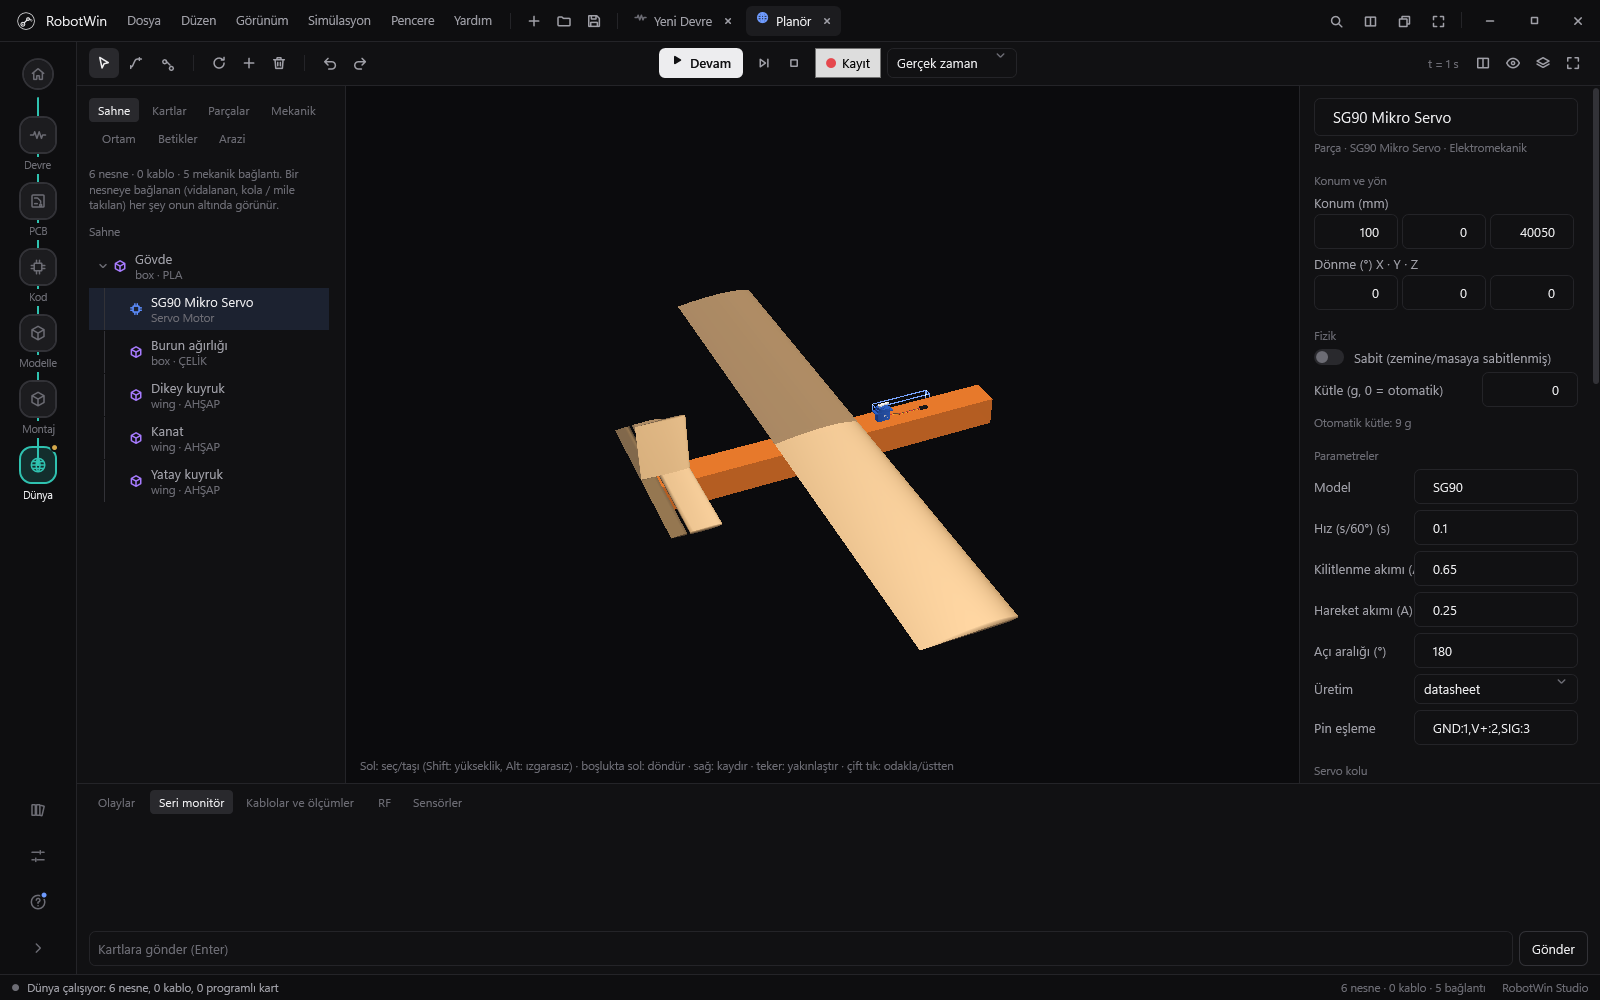
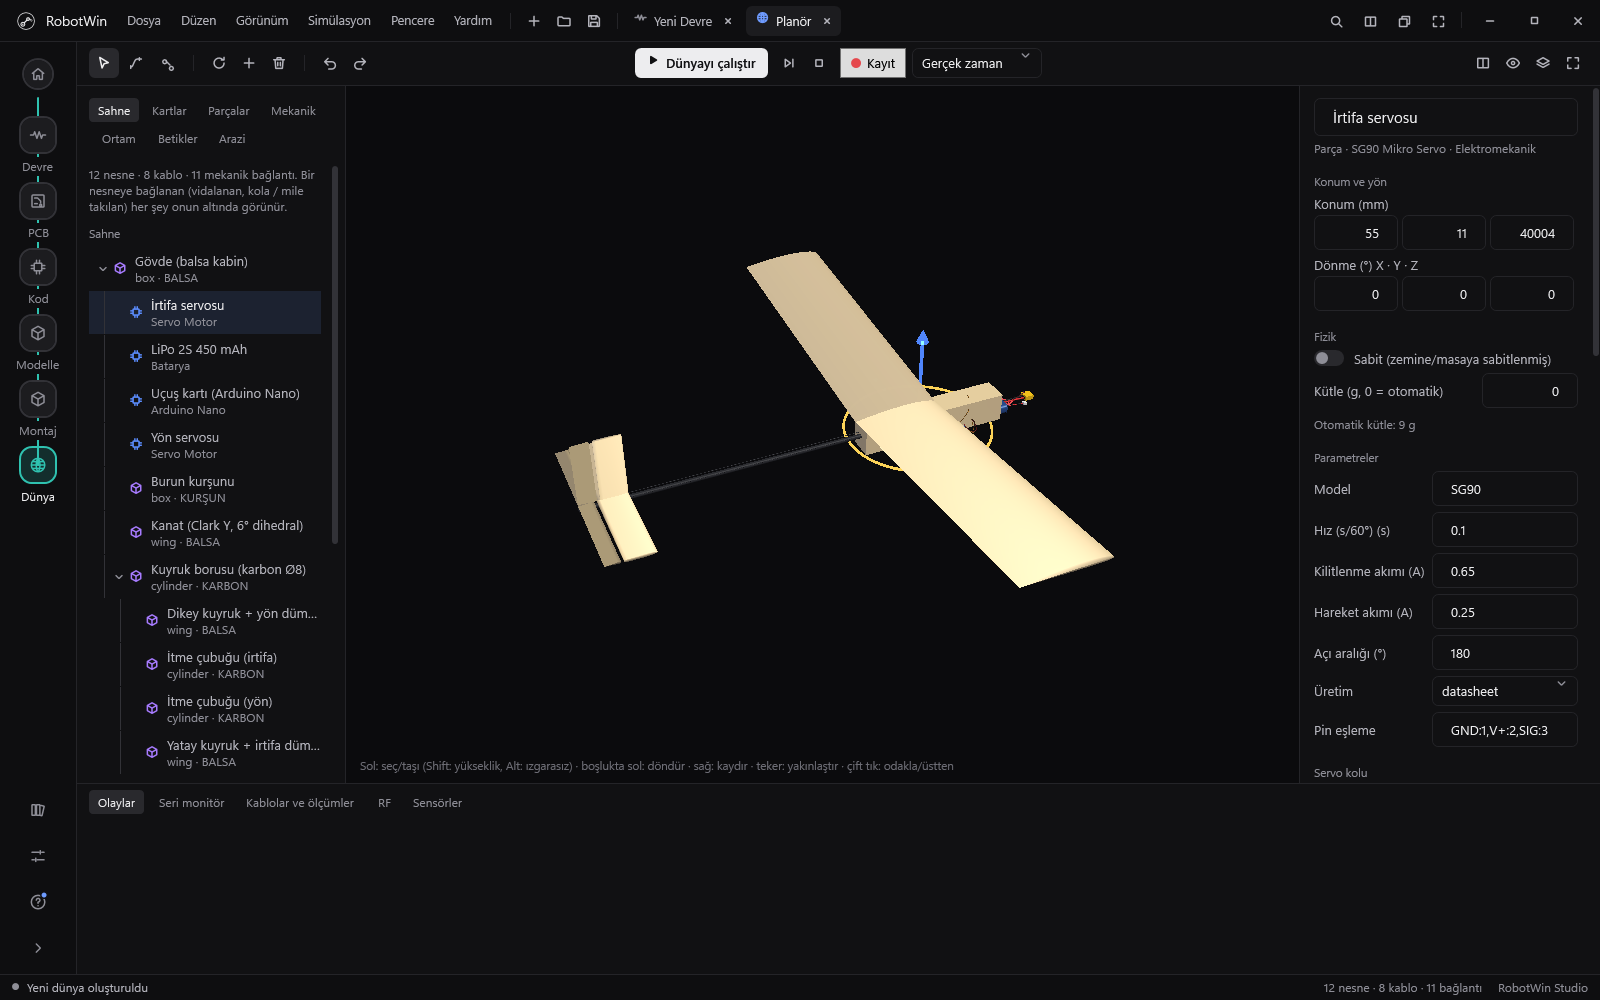
Glider rebuilt the way a real one is; wood density fix; balsa, carbon, lead
The glider template was not a buildable aircraft (solid 60 cm PLA block, a servo floating
on top driving nothing, nose weight sunk into the fuselage). Now: balsa pod with a 2S
LiPo, Arduino Nano, elevator and rudder SG90s and nose lead inside; carbon tail boom glued
into the pod with 1 mm pushrods beside it; 6 deg dihedral Clark Y wing on the wing saddle
(rudder steered); tailplane and fin on the boom; LiPo -> Nano VIN, servos from 5 V,
signals D9/D10; a flight sketch holds trim then turns gently. 233 g, CG at 33 % chord,
tail volume ~0.57: it glides ~10:1 at 5 m/s with < 9 deg pitch swing (tested in the
headless runner). No unintended overlaps (overlap report clean).
Materials: wood had no density entry and weighed like PLA (1240 instead of ~500 kg/m3);
added wood, balsa, lead, rubber, copper densities and structural/thermal data for balsa,
carbon fibre and lead, with colours.

diff --git a/CoreSim/src/RobotTwin.CoreSim/Sandbox/WorldExamples.cs b/CoreSim/src/RobotTwin.CoreSim/Sandbox/WorldExamples.cs
@@ -17,46 +17,131 @@ namespace RobotTwin.CoreSim.Sandbox
         /// the Studio and the headless runner use, so the wheels sit exactly on their axles.
         /// </summary>
         /// <summary>
-        /// [aero] 1 m model glider: Clark Y wing (2° incidence), NACA 0012 tail with an elevator linked
-        /// to an SG90 servo by a 0.5 pushrod, fin, nose weight for a stable CG; hand-launched at
-        /// 12 m/s from 40 m. Static margin ≈ 25 % of the chord: it settles into a ~7:1 glide.
+        /// [aero] A 1 m RC thermal glider built the way a real one is: a balsa fuselage pod carrying a
+        /// 2S LiPo, an Arduino Nano and two SG90 servos (elevator, rudder) with lead in the nose, a
+        /// carbon tail boom with the pushrods running beside it, a 6° dihedral Clark Y wing on the
+        /// pod's wing saddle (rudder-steered, no ailerons: dihedral turns yaw into roll), and the
+        /// tailplane and fin on the end of the boom. CG ≈ 33 % of the chord, tail volume ≈ 0.57.
+        /// Hand-launched at 7 m/s from 40 m; the sketch holds trim, then flies a gentle turn.
         /// </summary>
         public static WorldDocument Glider(PartLibrary lib)
         {
             var w = new WorldDocument { Title = "Planör" };
-            double z = 40;
-            var fus = w.AddBody("box", 0.60, 0.05, 0.05, new WorldPose { Z = z }, "PLA");
-            fus.Name = "Gövde";
-            fus.MassKg = 0.25;
-            fus.Parameters["launch"] = "12";
-            var nose = w.AddBody("box", 0.05, 0.04, 0.04, new WorldPose { X = 0.25, Z = z + 0.005 }, "ÇELİK");
-            nose.Name = "Burun ağırlığı";
-            nose.MassKg = 0.07;
-            var wing = w.AddBody("wing", 0.15, 1.0, 0.012, new WorldPose { X = -0.02, Z = z + 0.05 }, "AHŞAP");
-            wing.Name = "Kanat";
-            wing.MassKg = 0.08;
+            const double z0 = 40;                    // pod bottom
+            const double podTop = z0 + 0.050;
+            const double boomZ = z0 + 0.025;          // boom axis
+            const double tailX = -0.50;
+
+            var pod = w.AddBody("box", 0.26, 0.045, 0.050, new WorldPose { X = 0.07, Z = z0 }, "BALSA");
+            pod.Name = "Gövde (balsa kabin)";
+            pod.MassKg = 0.035;                       // hollow 2 mm balsa box with a ply former
+            pod.Parameters["launch"] = "7";
+            var boom = w.AddBody("cylinder", 0.008, 0.008, 0.50, new WorldPose { X = tailX - 0.04, Z = boomZ, Pitch = 90 }, "KARBON");
+            boom.Name = "Kuyruk borusu (karbon Ø8)";
+            boom.MassKg = 0.012;
+
+            var wing = w.AddBody("wing", 0.15, 1.0, 0.012, new WorldPose { X = 0.005, Z = podTop }, "BALSA");
+            wing.Name = "Kanat (Clark Y, 6° dihedral)";
+            wing.MassKg = 0.060;
             wing.Parameters["airfoil"] = "clarky";
             wing.Parameters["incidence"] = "2";
-            var servo = w.AddComponent(lib, "servo-sg90", new WorldPose { X = 0.10, Y = 0.0, Z = z + 0.05 });
-            var tail = w.AddBody("wing", 0.08, 0.30, 0.006, new WorldPose { X = -0.28, Z = z + 0.05 }, "AHŞAP");
-            tail.Name = "Yatay kuyruk";
-            tail.MassKg = 0.015;
-            tail.Parameters["airfoil"] = "naca0012";
-            tail.Parameters["incidence"] = "-3";
-            tail.Parameters["control"] = "elevator";
-            tail.Parameters["control.chord"] = "0.35";
-            tail.Parameters["control.servo"] = servo.Id;
-            tail.Parameters["control.gain"] = "0.5";
-            tail.Parameters["downwash"] = wing.Id;
-            var fin = w.AddBody("wing", 0.08, 0.10, 0.006, new WorldPose { X = -0.28, Z = z + 0.056 }, "AHŞAP");
-            fin.Name = "Dikey kuyruk";
-            fin.MassKg = 0.008;
+            wing.Parameters["dihedral"] = "6";
+
+            // Electronics inside the pod: battery and lead forward for the CG, servos under the wing.
+            var bat = w.AddComponent(lib, "bat-2s-lipo", new WorldPose { X = 0.165, Z = z0 + 0.004 });
+            bat.Name = "LiPo 2S 450 mAh";
+            bat.MassKg = 0.028;
+            var nano = w.AddComponent(lib, "arduino-nano", new WorldPose { X = 0.110, Z = z0 + 0.004 });
+            nano.Name = "Uçuş kartı (Arduino Nano)";
+            nano.MassKg = 0.007;
+            nano.Firmware = new Formats.FirmwareSource
+            {
+                FileName = "planor.ino",
+                Target = "arduino:avr:nano",
+                Source = GliderSketch
+            };
+            var elevServo = w.AddComponent(lib, "servo-sg90", new WorldPose { X = 0.055, Y = 0.011, Z = z0 + 0.004 });
+            elevServo.Name = "İrtifa servosu";
+            var rudServo = w.AddComponent(lib, "servo-sg90", new WorldPose { X = 0.055, Y = -0.011, Z = z0 + 0.004 });
+            rudServo.Name = "Yön servosu";
+            var lead = w.AddBody("box", 0.020, 0.020, 0.008, new WorldPose { X = 0.190, Z = z0 + 0.034 }, "KURŞUN");
+            lead.Name = "Burun kurşunu";
+            lead.MassKg = 0.038;
+
+            // Pushrods: 1 mm carbon rods from the pod's rear exit along the boom to the control horns.
+            var rodE = w.AddBody("cylinder", 0.001, 0.001, 0.45, new WorldPose { X = tailX + 0.01, Y = 0.006, Z = boomZ + 0.004, Pitch = 90 }, "KARBON");
+            rodE.Name = "İtme çubuğu (irtifa)";
+            rodE.MassKg = 0.0008;
+            var rodR = w.AddBody("cylinder", 0.001, 0.001, 0.45, new WorldPose { X = tailX + 0.01, Y = -0.006, Z = boomZ + 0.004, Pitch = 90 }, "KARBON");
+            rodR.Name = "İtme çubuğu (yön)";
+            rodR.MassKg = 0.0008;
+
+            var stab = w.AddBody("wing", 0.08, 0.30, 0.006, new WorldPose { X = tailX, Z = boomZ + 0.004 }, "BALSA");
+            stab.Name = "Yatay kuyruk + irtifa dümeni";
+            stab.MassKg = 0.008;
+            stab.Parameters["airfoil"] = "naca0012";
+            stab.Parameters["incidence"] = "-2";
+            stab.Parameters["control"] = "elevator";
+            stab.Parameters["control.chord"] = "0.35";
+            stab.Parameters["control.servo"] = elevServo.Id;
+            stab.Parameters["control.gain"] = "0.5";   // horn 12 mm / control horn 24 mm
+            stab.Parameters["downwash"] = wing.Id;
+            var fin = w.AddBody("wing", 0.08, 0.11, 0.005, new WorldPose { X = tailX, Z = boomZ + 0.010 }, "BALSA");
+            fin.Name = "Dikey kuyruk + yön dümeni";
+            fin.MassKg = 0.005;
             fin.Parameters["airfoil"] = "naca0012";
             fin.Parameters["symmetric"] = "false";
-            foreach (var part in new WorldObject[] { nose, wing, tail, fin, servo })
-                w.Joints.Add(new WorldJoint { Id = w.NextId("J"), ObjectA = part.Id, ObjectB = fus.Id });
+            fin.Parameters["control"] = "rudder";
+            fin.Parameters["control.chord"] = "0.4";
+            fin.Parameters["control.servo"] = rudServo.Id;
+            fin.Parameters["control.gain"] = "0.5";
+
+            foreach (var part in new WorldObject[] { boom, wing, bat, nano, elevServo, rudServo, lead })
+                w.Joints.Add(new WorldJoint { Id = w.NextId("J"), ObjectA = part.Id, ObjectB = pod.Id });
+            foreach (var part in new WorldObject[] { stab, fin, rodE, rodR })
+                w.Joints.Add(new WorldJoint { Id = w.NextId("J"), ObjectA = part.Id, ObjectB = boom.Id });
+
+            // Wiring: LiPo → Nano VIN (on-board regulator), servos from the Nano's 5 V, signals D9 / D10.
+            WorldCable C(WorldObject a, string pa, WorldObject b, string pb, string color)
+            {
+                var c = w.Connect(new CableEnd { ObjectId = a.Id, Pin = pa }, new CableEnd { ObjectId = b.Id, Pin = pb }, 26, color);
+                c.Length = 0.10;
+                return c;
+            }
+
+            C(bat, "+", nano, "VIN", "#E5484D");
+            C(bat, "-", nano, "GND1", "#1F1F23");
+            C(nano, "5V", elevServo, "V+", "#E5484D");
+            C(nano, "GND2", elevServo, "GND", "#5A3A22");
+            C(nano, "D9", elevServo, "SIG", "#F2A33B");
+            C(nano, "5V", rudServo, "V+", "#E5484D");
+            C(nano, "GND1", rudServo, "GND", "#5A3A22");
+            C(nano, "D10", rudServo, "SIG", "#F2A33B");
             return w;
         }
+
+        /// <summary>Glider flight sketch: trim for 3 s, a gentle rudder turn, then straight again.</summary>
+        public const string GliderSketch = @"#include <Servo.h>
+// Planör uçuş kartı: irtifa dümeni D9, yön dümeni D10.
+Servo elevator, rudder;
+const int ELEV_TRIM = 90;   // derece; 90 = nötr
+const int RUD_TRIM = 90;
+
+void setup() {
+  elevator.attach(9);
+  rudder.attach(10);
+  elevator.write(ELEV_TRIM);
+  rudder.write(RUD_TRIM);
+}
+
+void loop() {
+  unsigned long t = millis();
+  // 3 s düz süzül, 4 s hafif sola dönüş (dihedral yalpayı yatışa çevirir), sonra düz.
+  rudder.write(t > 3000 && t < 7000 ? RUD_TRIM + 20 : RUD_TRIM);
+  elevator.write(ELEV_TRIM);
+  delay(20);
+}
+";
 
         public static WorldDocument CarDetailed(PartLibrary lib) => Car(lib, 0.0224, -0.0227, 0.0112, 0.0184);
 

diff --git a/CoreSim/tests/RobotTwin.CoreSim.Tests/AeroWingTests.cs b/CoreSim/tests/RobotTwin.CoreSim.Tests/AeroWingTests.cs
@@ -183,16 +183,39 @@ namespace RobotTwin.CoreSim.Tests
         [Fact]
         public void GliderExampleFliesInTheHeadlessRunner()
         {
-            var w = WorldExamples.Glider(RobotTwin.CoreSim.Design.PartLibrary.Default);
-            var fus = w.Objects.First(o => o.Name == "Gövde");
-            using var r = new RobotTwin.CoreSim.Automation.WorldRunner(w, new RobotTwin.CoreSim.Automation.RunnerOptions { Firmware = false });
-            Assert.True(r.TryGetBody(fus.Id, out var s0));
-            r.Step(5.0);
-            Assert.True(r.TryGetBody(fus.Id, out var s1));
-            double dx = s1.Position.X - s0.Position.X, dz = s0.Position.Z - s1.Position.Z;
-            _out.WriteLine($"5 s: {dx:F1} m forward, {dz:F1} m down, speed {s1.Velocity.Length:F1} m/s");
-            Assert.True(dx > 35, "it flies forward");
-            Assert.InRange(dz, 2, 20);
+            {
+                string inc = "-2";
+                var w = WorldExamples.Glider(RobotTwin.CoreSim.Design.PartLibrary.Default);
+                var pod = w.Objects.First(o => o.Name.StartsWith("Gövde"));
+                using var r = new RobotTwin.CoreSim.Automation.WorldRunner(w, new RobotTwin.CoreSim.Automation.RunnerOptions { Firmware = false });
+                Assert.True(r.TryGetBody(pod.Id, out var s0));
+                double mass = 0;
+                Vec3 cg = Vec3.Zero;
+                foreach (var b in r.Physics!.Scene.Bodies.Where(b => !b.IsStatic))
+                {
+                    mass += b.Mass;
+                    cg += b.Position * b.Mass;
+                }
+
+                cg /= mass;
+                double maxPitch = 0;
+                for (int k = 0; k < 50; k++)
+                {
+                    r.Step(0.1);
+                    Assert.True(r.TryGetBody(pod.Id, out var sk));
+                    double pitch = Math.Asin(Math.Max(-1, Math.Min(1, sk.Orientation.Rotate(Vec3.UnitX).Z))) * 180 / Math.PI;
+                    if (k >= 20) maxPitch = Math.Max(maxPitch, Math.Abs(pitch));
+                }
+
+                Assert.True(r.TryGetBody(pod.Id, out var s1));
+                double dx = s1.Position.X - s0.Position.X, dz = s0.Position.Z - s1.Position.Z;
+                _out.WriteLine($"tail {inc}°: mass {mass * 1000:F0} g, CG x {cg.X * 1000:F1} mm (wing LE at 80 mm → {(0.08 - cg.X) / 0.15 * 100:F0} % chord); 5 s: {dx:F1} m fwd, {dz:F1} m down, L/D {dx / Math.Max(1e-6, dz):F1}, speed {s1.Velocity.Length:F1} m/s, max |pitch| 2–5 s {maxPitch:F0}°");
+                Assert.InRange(mass, 0.20, 0.26);                       // a 1 m balsa/carbon glider with electronics
+                Assert.InRange((0.08 - cg.X) / 0.15, 0.28, 0.38);       // CG at ~1/3 of the chord
+                Assert.InRange(dx / dz, 7, 14);                          // model thermal glider glide ratio
+                Assert.InRange(s1.Velocity.Length, 4, 8);
+                Assert.True(maxPitch < 15, "settles into a steady glide");
+            }
         }
 }
 }

diff --git a/Studio/RobotWin.Studio/Examples/WorldTemplates.cs b/Studio/RobotWin.Studio/Examples/WorldTemplates.cs
@@ -43,7 +43,7 @@ namespace RobotWin.Studio.Examples
             // [objs]
             new WorldTemplate("prop-stand", "Pervane itki standı", "8520 coreless motorlar 55 ve 65 mm pervaneyle 1S LiPo'dan dönüyor: devir, itki (g), sürükleme torku ve motor akımı canlı okunur.", PropStand),
             new WorldTemplate("mini-drone", "Mini drone kalkışı", "Dört 8520 motor, çapraz CCW/CW pervaneler ve 1S LiPo, 40 g'lık X gövde. İtki ağırlığı geçince havalanır (kontrolcü yok, düz yükselir).", MiniDrone),
-            new WorldTemplate("glider", "Planör: kanat, kuyruk ve servolu irtifa dümeni", "1 m açıklıklı planör 40 m'den 12 m/s ile elden atılır. Clark Y kanat ve NACA 0012 kuyruk gerçek kaldırma, sürükleme ve moment üretir; ağırlık merkezi önde olduğundan uçak kararlı süzülür (≈7:1). İrtifa dümeni servoya 0,5 oranlı itme çubuğuyla bağlı: servoyu çevirince burun kalkar.", () => RobotTwin.CoreSim.Sandbox.WorldExamples.Glider(Lib)),   // [aero]
+            new WorldTemplate("glider", "Planör: balsa gövde, karbon kuyruk borusu, Arduino Nano + 2 servo", "1 m açıklıklı RC planör gerçek yapısıyla: balsa kabinde 2S LiPo, Arduino Nano, irtifa ve yön servoları ve burun kurşunu; karbon kuyruk borusu boyunca itme çubukları; 6° dihedral Clark Y kanat; 233 g, ağırlık merkezi veterin %33'ünde. 40 m'den 7 m/s ile elden atılır, ~10:1 süzülür; çizim 3 s düz uçup yön dümeniyle hafifçe döner.", () => RobotTwin.CoreSim.Sandbox.WorldExamples.Glider(Lib)),   // [aero]
             new WorldTemplate("mecanum", "Mekanum tekerlekli araba (yana kayar)", "Dört TT motor ve A/B mekanum tekerlekler. Ön motorlar düz, arka motorlar ters bağlı: makaraların 45° itişi araba yana kaydırır.", Mecanum),
             new WorldTemplate("lights", "Işıklar: LED'ler ve lambalar (karanlık oda)", "Dirençli 5 mm LED'ler, RGB LED (kırmızı + mavi = mor), 3 W güç LED'i, fener ampulü ve 12 V LED şerit karanlık odayı aydınlatır.", Lights),
             new WorldTemplate("ps5-car", "Kumandalı araba (ESP32 + PS5 kumanda)", "ESP32 Bluepad32 çizimi eşli DualSense kumandayı okur, DRV8833 ile iki TT motoru sürer. ESP32 bilgisayara USB kablosuyla bağlı; kumanda gerçek (USB/Bluetooth) veya ekrandaki sanal kumanda olabilir.", Ps5Car),

diff --git a/CoreSim/src/RobotTwin.CoreSim/Analysis/Fem/StructuralMaterial.cs b/CoreSim/src/RobotTwin.CoreSim/Analysis/Fem/StructuralMaterial.cs
@@ -100,6 +100,9 @@ namespace RobotTwin.CoreSim.Analysis.Fem
             ["KONTRPLAK"] = new StructuralMaterial { Name = "Kontrplak", E = 8e9, Nu = 0.3, Yield = 35e6, Density = 600, Conductivity = 0.13, SpecificHeat = 1700, Emissivity = 0.9, Alpha = 6e-6, SofteningPerK = 0.002, MeltingPoint = 270 },
             ["FR4"] = new StructuralMaterial { Name = "FR4", E = 22e9, Nu = 0.14, Yield = 300e6, Density = 1850, Conductivity = 0.3, SpecificHeat = 1100, Emissivity = 0.9, Alpha = 14e-6, GlassTransition = 135, MeltingPoint = 300, RubberyRatio = 0.3 },
             ["KAUÇUK"] = new StructuralMaterial { Name = "Kauçuk", E = 5e6, Nu = 0.48, Yield = 15e6, Density = 1100, Conductivity = 0.16, SpecificHeat = 2000, Emissivity = 0.92, Alpha = 200e-6, SofteningPerK = 0.003, MeltingPoint = 200 },
+            ["BALSA"] = new StructuralMaterial { Name = "Balsa (lif yönü)", E = 3.4e9, Nu = 0.3, Yield = 12e6, Density = 160, Conductivity = 0.05, SpecificHeat = 2900, Emissivity = 0.9, Alpha = 4e-6, SofteningPerK = 0.002, MeltingPoint = 270 },
+            ["KARBON"] = new StructuralMaterial { Name = "Karbon fiber (pultrüzyon)", E = 110e9, Nu = 0.3, Yield = 1200e6, Density = 1600, Conductivity = 5, SpecificHeat = 800, Emissivity = 0.9, Alpha = 1e-6, GlassTransition = 120, MeltingPoint = 300, RubberyRatio = 0.6 },
+            ["KURŞUN"] = new StructuralMaterial { Name = "Kurşun", E = 16e9, Nu = 0.44, Yield = 12e6, Density = 11340, Conductivity = 35, SpecificHeat = 130, Emissivity = 0.08, Alpha = 29e-6, SofteningPerK = 0.002, MeltingPoint = 327 },
             ["BAKIR"] = new StructuralMaterial { Name = "Bakır", E = 117e9, Nu = 0.34, Yield = 70e6, Density = 8960, Conductivity = 400, SpecificHeat = 385, Emissivity = 0.05, Alpha = 17e-6, SofteningPerK = 0.0004, MeltingPoint = 1085 }
         };
 
@@ -113,6 +116,8 @@ namespace RobotTwin.CoreSim.Analysis.Fem
                 "AHSAP" or "WOOD" => "AHŞAP",
                 "KAUCUK" or "RUBBER" => "KAUÇUK",
                 "COPPER" => "BAKIR",
+                "CARBON" => "KARBON",
+                "KURSUN" or "LEAD" => "KURŞUN",
                 var k => k
             };
             return Table.TryGetValue(key, out var m) ? m.Clone() : Table["PLA"].Clone();

diff --git a/CoreSim/src/RobotTwin.CoreSim/Mechanics/MassProperties.cs b/CoreSim/src/RobotTwin.CoreSim/Mechanics/MassProperties.cs
@@ -520,6 +520,11 @@ namespace RobotTwin.CoreSim.Mechanics
         public const double Steel = 7850;
         public const double Brass = 8500;
         public const double CarbonFibre = 1600;
+        public const double Wood = 500;        // pine / spruce
+        public const double Balsa = 160;       // model-aircraft grade (100–200)
+        public const double Lead = 11340;
+        public const double Rubber = 1100;
+        public const double Copper = 8960;
 
         /// <summary>Rough effective density of an FDM print: solid walls/skins plus infill (fractions 0..1).</summary>
         public static double Printed(double material, double infill, double shellFraction = 0.35) =>

diff --git a/CoreSim/src/RobotTwin.CoreSim/Mechanics/Mechatronics.cs b/CoreSim/src/RobotTwin.CoreSim/Mechanics/Mechatronics.cs
@@ -578,6 +578,11 @@ namespace RobotTwin.CoreSim.Mechanics
             "ALÜMİNYUM" or "ALUMINIUM" or "ALUMINUM" => MaterialDensity.Aluminium,
             "ÇELİK" or "STEEL" => MaterialDensity.Steel,
             "KARBON" or "CARBON" => MaterialDensity.CarbonFibre,
+            "AHŞAP" or "AHSAP" or "WOOD" => MaterialDensity.Wood,
+            "BALSA" => MaterialDensity.Balsa,
+            "KURŞUN" or "KURSUN" or "LEAD" => MaterialDensity.Lead,
+            "KAUÇUK" or "KAUCUK" or "RUBBER" => MaterialDensity.Rubber,
+            "BAKIR" or "COPPER" => MaterialDensity.Copper,
             _ => MaterialDensity.Pla
         };
 

diff --git a/Studio/RobotWin.Studio/Pages/WorldPage.xaml.cs b/Studio/RobotWin.Studio/Pages/WorldPage.xaml.cs
@@ -28,7 +28,7 @@ namespace RobotWin.Studio.Pages
     /// </summary>
     public partial class WorldPage : UserControl
     {
-        private static readonly string[] Materials = { "PLA", "PETG", "ABS", "AKRİLİK", "ALÜMİNYUM", "ÇELİK", "KARBON", "AHŞAP", "MDF", "KAUÇUK", "FR4" };
+        private static readonly string[] Materials = { "PLA", "PETG", "ABS", "AKRİLİK", "ALÜMİNYUM", "ÇELİK", "KARBON", "AHŞAP", "BALSA", "KURŞUN", "MDF", "KAUÇUK", "FR4" };
 
         private readonly MainWindow _main;
         private readonly WorldSession _session = new WorldSession(PartLibrary.Default);

diff --git a/Studio/RobotWin.Studio/World/ObjectModels.cs b/Studio/RobotWin.Studio/World/ObjectModels.cs
@@ -129,6 +129,9 @@ namespace RobotWin.Studio.World
         {
             "KAUÇUK" or "KAUCUK" or "RUBBER" => Color.FromRgb(0x24, 0x24, 0x27),
             "AHŞAP" or "AHSAP" or "MDF" or "KONTRPLAK" => Color.FromRgb(0xC8, 0xA0, 0x6E),
+            "BALSA" => Color.FromRgb(0xE6, 0xCF, 0xA0),
+            "KARBON" or "CARBON" => Color.FromRgb(0x2B, 0x2C, 0x30),
+            "KURŞUN" or "KURSUN" or "LEAD" => Color.FromRgb(0x7A, 0x7F, 0x88),
             "FR4" => Color.FromRgb(0x1E, 0x56, 0x31),
             _ => MeshVisual.MaterialColor(material ?? "PLA")
         };
